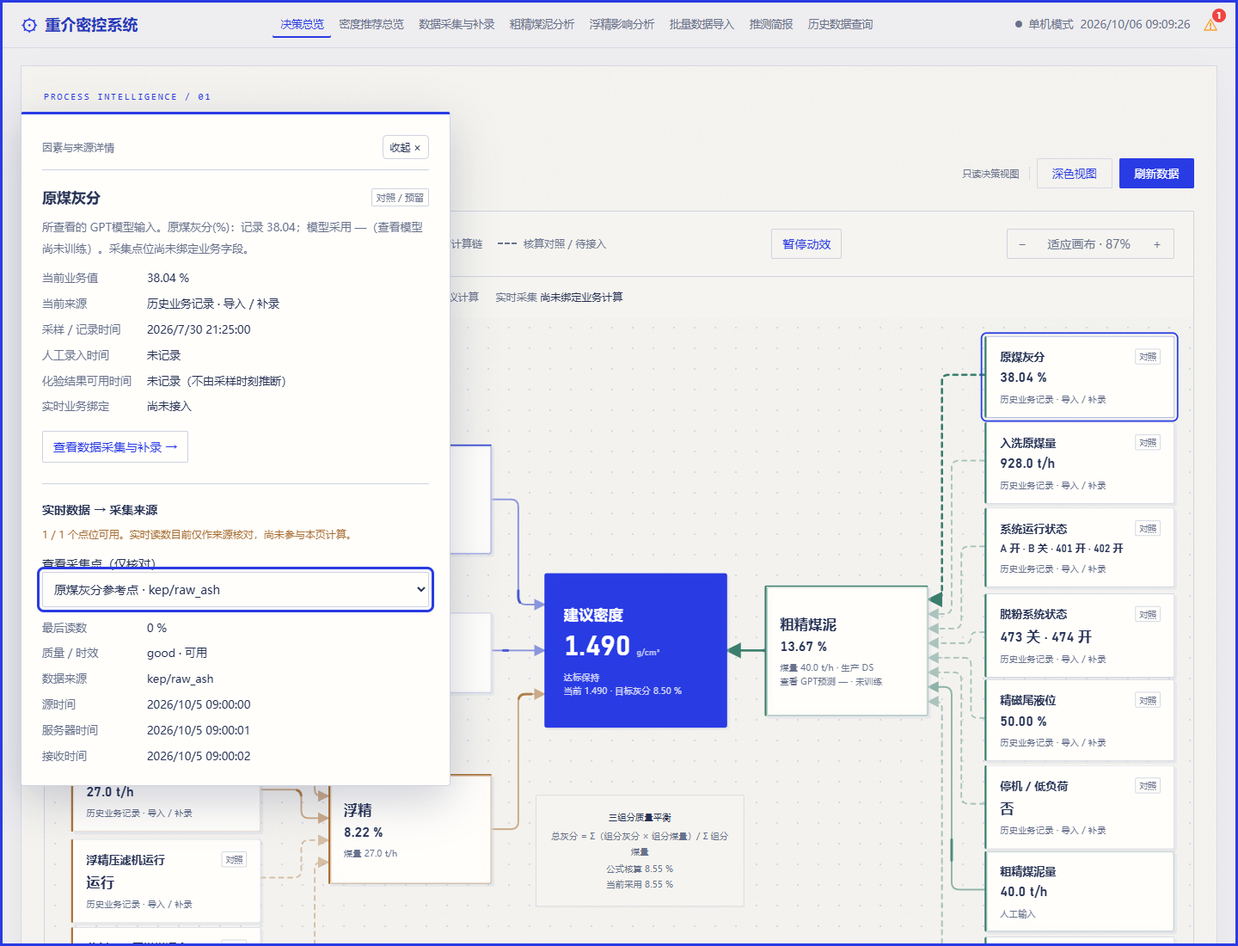
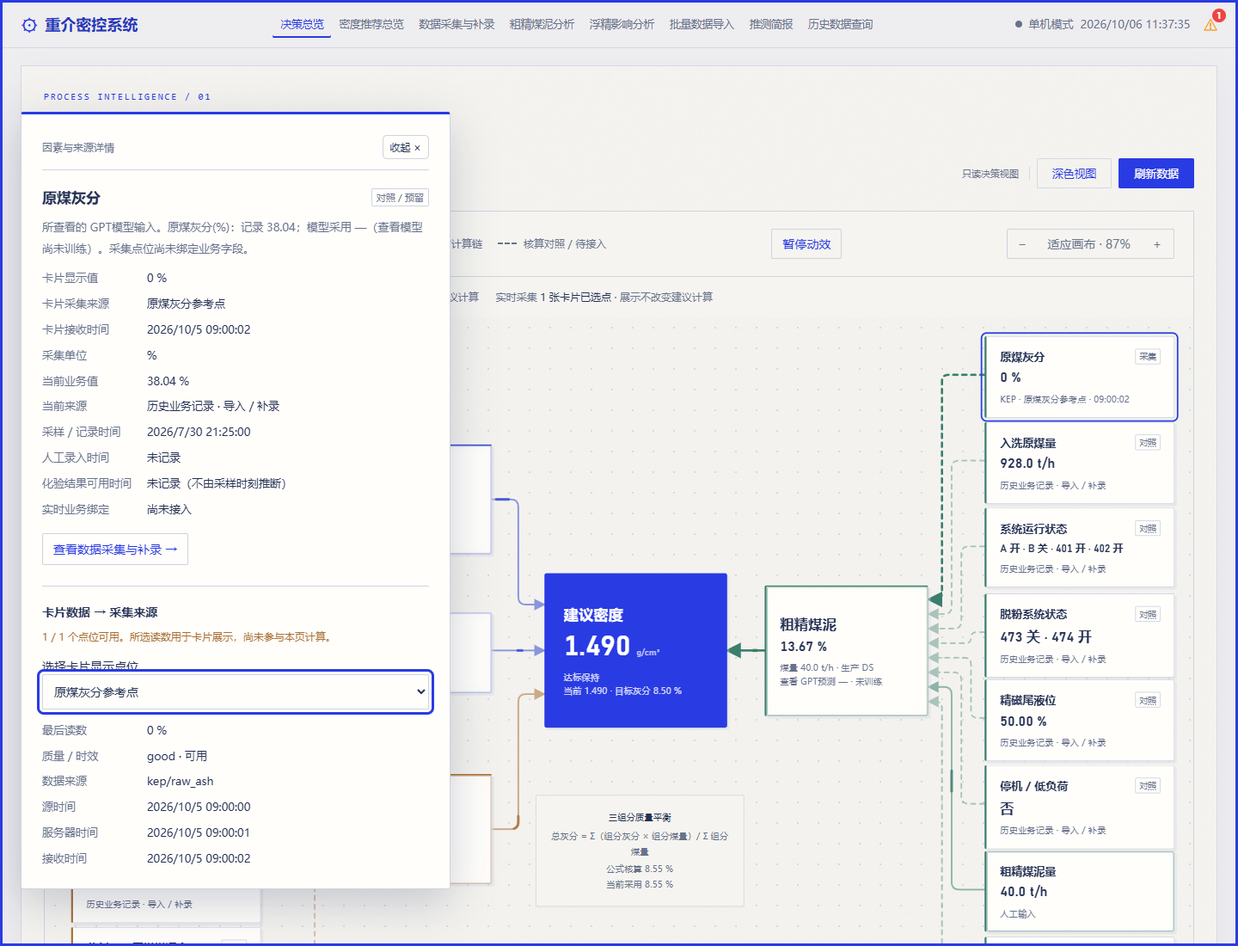
feat: update decision cards from selected telemetry points

diff --git a/frontend/js/decision-overview.js b/frontend/js/decision-overview.js
@@ -1,4 +1,4 @@
-/* Read-only decision map. Never switch/train models, save App.store, or bind telemetry. */
+/* Read-only decision map. Telemetry choices affect display only, never App.store or model inputs. */
 const DecisionOverviewPage = {
     initialized: false, view: 'gpt', selected: 'density', zoom: null, snapshot: null,
     pointChoices: {}, nodes: [], timer: null,
@@ -7,6 +7,7 @@ const DecisionOverviewPage = {
     motionEnabled: true, motionReduced: false, motionPrinting: false,
     revealFrame: null,
     background: null,
+    choicesKey: 'dmcs.decision-point-choices.v1',
     escape(value) { return String(value ?? '').replace(/[&<>"']/g, c => ({'&':'&amp;','<':'&lt;','>':'&gt;','"':'&quot;',"'":'&#39;'}[c])); },
     number(value, digits = 2, unit = '') { return Number.isFinite(value) ? value.toFixed(digits) + (unit ? ' ' + unit : '') : '—'; },
     time(value) {
@@ -15,6 +16,54 @@ const DecisionOverviewPage = {
         return Number.isFinite(date.getTime()) ? date.toLocaleString('zh-CN', {hour12:false}) + (date.getTime() > Date.now() + 60000 ? '（未来时间，需核对）' : '') : '未记录';
     },
     active() { return !!document.getElementById('page-decision')?.classList.contains('active'); },
+    loadPointChoices() {
+        try {
+            const saved = JSON.parse(localStorage.getItem(this.choicesKey) || '{}'), choices = Object.create(null);
+            if (saved && typeof saved === 'object' && !Array.isArray(saved)) for (const [id,value] of Object.entries(saved)) {
+                if (!/^[a-z][a-z0-9-]{0,63}$/.test(id) || typeof value !== 'string' || value.length > 160) continue;
+                let identity;
+                try { identity = JSON.parse(value); } catch (_) { continue; }
+                if (Array.isArray(identity) && identity.length === 2 && identity.every(v => typeof v === 'string' && /^[A-Za-z][A-Za-z0-9_-]{0,63}$/.test(v))) choices[id] = value;
+            }
+            this.pointChoices = choices;
+        } catch (_) { /* An invalid or unavailable local preference does not alter business data. */ }
+    },
+    savePointChoices() {
+        try { localStorage.setItem(this.choicesKey, JSON.stringify(this.pointChoices)); }
+        catch (_) { /* Keep the current selection in memory if local storage is unavailable. */ }
+    },
+    pointDisplay(node) {
+        const choice = this.pointChoices[node.id];
+        if (!choice) return {bound:false,value:node.value,source:node.source,sampleAt:node.sampleAt};
+        const item = (window.Operations?.telemetry?.items || []).find(p => this.pointIdentity(p) === choice);
+        const sample = item?.sample || {};
+        const hasValue = typeof sample.value === 'boolean' || Number.isFinite(sample.value);
+        const available = !!item?.available && !window.Operations?.telemetryFailed && sample.quality === 'good' && !sample.issue && hasValue;
+        let value = '—';
+        if (available) {
+            if (typeof sample.value === 'boolean') value = sample.value ? '1' : '0';
+            else {
+                const magnitude = Math.abs(sample.value);
+                value = magnitude >= 1e7 || (magnitude > 0 && magnitude < .001) ? sample.value.toExponential(3) :
+                    new Intl.NumberFormat('zh-CN', {maximumFractionDigits:3, useGrouping:false}).format(sample.value);
+            }
+            if (item.unit) value += ' ' + item.unit;
+        }
+        const state = item ? this.telemetryState(item) : '已选点位未返回';
+        const received = sample.received_at ? new Date(sample.received_at) : null;
+        const clock = received && Number.isFinite(received.getTime()) ? received.toLocaleTimeString('zh-CN', {hour12:false}) : '时间未记录';
+        return {bound:true,item,available,value,sampleAt:sample.received_at || null,
+            source:available ? `KEP · ${item.tag_name || item.name} · ${clock}` : `不可用 · ${state}`,
+            title:`${item?.item_id || sample.node_id || choice}；${state}；${item?.unit ? '单位 '+item.unit : '单位未提供'}；接收时间 ${this.time(sample.received_at)}`};
+    },
+    telemetryUpdated() {
+        if (!this.initialized || !this.active() || document.hidden || !this.snapshot) return;
+        const focused = document.activeElement?.dataset?.decisionNode;
+        this.renderGraph(); this.renderContext();
+        if (document.activeElement?.id !== 'decision-source-point' || Date.now() > this.sourceInteractionUntil) this.renderInspector();
+        if (focused) document.querySelector(`[data-decision-node="${focused}"]`)?.focus({preventScroll:true});
+        this.queueInspectorPosition();
+    },
 
     // Existing resolvers write autoState/EMA. Run them on a private copy instead.
     readFacade() {
@@ -62,8 +111,10 @@ const DecisionOverviewPage = {
     init() {
         if (this.initialized) { this.refresh(); return; }
         this.initialized = true;
+        this.loadPointChoices();
         if (typeof DecisionBackground !== 'undefined') this.background = new DecisionBackground(document.getElementById('decision-background-flow'));
         document.getElementById('decision-refresh').addEventListener('click', () => {
+            this.sourceInteractionUntil = 0;
             this.refresh();
             if (window.Operations) window.Operations.refresh().then(() => this.renderInspector());
         });
@@ -103,7 +154,10 @@ const DecisionOverviewPage = {
         document.getElementById('decision-inspector').addEventListener('change', event => {
             if (event.target.id === 'decision-source-point') {
                 this.pointChoices[this.selected] = event.target.value;
-                this.renderInspector();
+                if (!event.target.value) delete this.pointChoices[this.selected];
+                this.savePointChoices();
+                this.sourceInteractionUntil = Date.now() + 500;
+                this.renderGraph(); this.renderContext(); this.renderInspector();
                 document.getElementById('decision-source-point').focus({preventScroll:true});
             }
         });
@@ -371,7 +425,8 @@ const DecisionOverviewPage = {
     renderContext() {
         const s = this.snapshot, sources = {manual:'人工总灰分',formula:'三组分公式',entry:'501 导入 / 录入',ash501:'501 灰分取值'};
         const message = s.componentFeeds ? '三组分参与当前建议计算' : '三组分显示公式核算对照，建议由所选总灰分驱动';
-        document.getElementById('decision-context').innerHTML = `<span>指导口径 <strong>${s.guide.scheme === 'heavy' ? '重介精煤版' : '总灰分版'}</strong></span><span>生产模型 <strong>${this.escape(s.engineLabel)}</strong></span><span>总灰分来源 <strong>${this.escape(sources[s.total.source])}</strong></span><span>${message}</span><span>实时采集 <strong>尚未绑定业务计算</strong></span>`;
+        const bound = this.nodes.filter(node => this.pointChoices[node.id]).length;
+        document.getElementById('decision-context').innerHTML = `<span>指导口径 <strong>${s.guide.scheme === 'heavy' ? '重介精煤版' : '总灰分版'}</strong></span><span>生产模型 <strong>${this.escape(s.engineLabel)}</strong></span><span>总灰分来源 <strong>${this.escape(sources[s.total.source])}</strong></span><span>${message}</span><span>实时采集 <strong>${bound ? bound+' 张卡片已选点' : '选择点位后更新卡片'}</strong> · 展示不改变建议计算</span>`;
     },
 
     // Short right-angle routes with small rounded corners; aligned nodes stay straight.
@@ -417,21 +472,25 @@ const DecisionOverviewPage = {
         const flowingIds = new Set(), now = Date.now()/1000;
         const paths = this.routeConnections().map(({node,parent,path},index) => {
             const highlight = ancestorIds.has(node.id) && ancestorIds.has(parent.id);
-            const flows = !node.reference && node.value !== '—' && parent.value !== '—';
+            const displayReference = node.reference || (node.id !== 'density' && !!this.pointChoices[node.id]) || (parent.id !== 'density' && !!this.pointChoices[parent.id]);
+            const flows = !displayReference && node.value !== '—' && parent.value !== '—';
             if (flows) { flowingIds.add(node.id); flowingIds.add(parent.id); }
             // Negative phase keeps motion continuous when the five-second snapshot rebuilds the graph.
             const phase = -((now+index*.37)%4).toFixed(3);
             const trace = flows ? `<path class="decision-flow${highlight ? ' is-highlight' : ''}" d="${path}" pathLength="100" style="--dm-flow-color:${colors[node.family]};animation-delay:${phase}s"/>` : '';
-            return `<path class="decision-edge${node.reference ? ' is-reference' : ''}${highlight ? ' is-highlight' : ''}" data-decision-from="${node.id}" data-decision-to="${parent.id}" d="${path}" stroke="${colors[node.family]}" marker-end="url(#decision-arrow-${node.family})"/>${trace}`;
+            return `<path class="decision-edge${displayReference ? ' is-reference' : ''}${highlight ? ' is-highlight' : ''}" data-decision-from="${node.id}" data-decision-to="${parent.id}" d="${path}" stroke="${colors[node.family]}" marker-end="url(#decision-arrow-${node.family})"/>${trace}`;
         }).join('');
         const markers = Object.entries(colors).map(([key,color]) => `<marker id="decision-arrow-${key}" viewBox="0 0 8 8" refX="7" refY="4" markerWidth="7" markerHeight="7" orient="auto"><path d="M0 0 L8 4 L0 8" fill="${color}"/></marker>`).join('');
         const cards = this.nodes.map((node,index) => {
             const active = node.id === this.selected;
+            const display = this.pointDisplay(node), root = node.id === 'density';
             const preview = node.id === 'coarse' ? `<span>查看${this.view === 'gpt' ? ' GPT' : '生产'}预测 ${this.number(s.prediction,2,'%')}${!s.model ? ' · 未训练' : s.previewOnly ? ' · 对照' : ' · 未平滑'}</span>` : '';
             const unit = node.id === 'density' ? '<span class="decision-root-unit">g/cm³</span>' : '';
             const sub = node.id === 'density' ? `<span>当前 ${this.number(s.guide.rhoCur,3)} · 目标灰分 ${this.number(s.guide.targetTotal,2,'%')}</span>` : '';
             const phase = -((now+index*.41)%5).toFixed(3);
-            return `<button type="button" class="decision-node${active ? ' is-selected' : ''}${flowingIds.has(node.id) ? ' has-flow' : ''}${node.type === 'root' ? ' decision-root' : node.type === 'component' ? ' decision-component' : ''}" data-decision-node="${node.id}" data-family="${node.family || 'root'}" aria-pressed="${active}" style="left:${node.x}px;top:${node.y}px;width:${node.w}px;min-height:${node.h}px;--dm-pulse-delay:${phase}s"><span class="decision-node-heading">${this.escape(node.title)}${node.reference ? '<span class="decision-badge">对照</span>' : ''}</span><span class="decision-node-value">${this.escape(node.value)}${unit}</span><span class="decision-node-source"><span>${this.escape(node.source)}</span>${sub}${preview}</span></button>`;
+            const badge = display.bound && !root ? `<span class="decision-badge">${display.available ? '采集' : '不可用'}</span>` : node.reference ? '<span class="decision-badge">对照</span>' : '';
+            const compare = display.bound && root ? `<span class="decision-live-comparison">采集对照 ${this.escape(display.value)}${display.available ? '' : '（不可用）'}</span>` : '';
+            return `<button type="button" class="decision-node${active ? ' is-selected' : ''}${flowingIds.has(node.id) ? ' has-flow' : ''}${display.bound ? ' is-telemetry' : ''}${display.bound && !display.available ? ' is-telemetry-unavailable' : ''}${node.type === 'root' ? ' decision-root' : node.type === 'component' ? ' decision-component' : ''}" data-decision-node="${node.id}" data-family="${node.family || 'root'}" aria-pressed="${active}"${display.bound ? ` title="${this.escape(display.title)}"` : ''} style="left:${node.x}px;top:${node.y}px;width:${node.w}px;min-height:${node.h}px;--dm-pulse-delay:${phase}s"><span class="decision-node-heading">${this.escape(node.title)}${badge}</span><span class="decision-node-value">${this.escape(root ? node.value : display.value)}${unit}</span><span class="decision-node-source"><span>${this.escape(root ? node.source : display.source)}</span>${sub}${preview}${compare}</span></button>`;
         }).join('');
         document.getElementById('decision-board').innerHTML = `<svg class="decision-edges" aria-hidden="true" viewBox="0 0 1540 970"><defs>${markers}</defs>${paths}</svg>${cards}<div class="decision-formula"><strong>三组分质量平衡</strong>总灰分 = Σ（组分灰分 × 组分煤量）/ Σ 组分煤量<br>公式核算 ${this.number(s.formula,2,'%')}<br>当前采用 ${this.number(s.total.value,2,'%')}</div>`;
     },
@@ -443,8 +502,12 @@ const DecisionOverviewPage = {
     pointIdentity(item) { return JSON.stringify([item.source_id,item.key]); },
     renderInspector() {
         if (!this.snapshot) return;
+        const scrollTop = document.getElementById('decision-inspector').scrollTop || 0;
         const node = this.nodes.find(n => n.id === this.selected) || this.nodes[0], s = this.snapshot;
+        const display = this.pointDisplay(node);
         const pairs = [['当前业务值',node.value + (node.id === 'density' ? ' g/cm³' : '')],['当前来源',node.source],['采样 / 记录时间',this.time(node.sampleAt)],['人工录入时间',this.time(node.enteredAt)],['化验结果可用时间','未记录（不由采样时刻推断）'],['实时业务绑定','尚未接入']];
+        if (display.bound) pairs.unshift([node.id === 'density' ? '采集对照值' : '卡片显示值',display.value + (display.available ? '' : '（不可用）')],
+            ['卡片采集来源',display.item?.item_id || display.item?.name || '已选点位未返回'],['卡片接收时间',this.time(display.sampleAt)],['采集单位',display.item?.unit || '未提供 · 不沿用业务单位']);
         if (node.family && s.sum > 0 && node.type === 'component') {
             const contribution = Number.isFinite(s.ashes[node.family]) ? s.ashes[node.family] * s.amounts[node.family] / s.sum : null;
             pairs.push(['组分质量占比',this.number(s.amounts[node.family] / s.sum * 100,1,'%')],['加权灰分贡献',this.number(contribution,3,'百分点')]);
@@ -459,13 +522,15 @@ const DecisionOverviewPage = {
         const items = window.Operations?.telemetry?.items || [];
         const choice = this.pointChoices[node.id] || '';
         const item = items.find(p => this.pointIdentity(p) === choice);
-        const options = items.map(p => `<option value="${this.escape(this.pointIdentity(p))}"${this.pointIdentity(p) === choice ? ' selected' : ''}>${this.escape(`${p.name} · ${p.source_id}/${p.key}`)}</option>`).join('');
+        const missingOption = choice && !item ? `<option value="${this.escape(choice)}" selected>已选点位暂未返回</option>` : '';
+        const options = missingOption + items.slice().sort((a,b) => String(a.item_id || a.name).localeCompare(String(b.item_id || b.name),'zh-CN',{numeric:true})).map(p => `<option value="${this.escape(this.pointIdentity(p))}"${this.pointIdentity(p) === choice ? ' selected' : ''}>${this.escape(p.device && p.tag_name ? `${p.device} · ${p.tag_name} · ${p.description || ''}` : p.name)}</option>`).join('');
         const sample = item?.sample || {};
         const value = typeof sample.value === 'boolean' ? (sample.value ? '开' : '关') : sample.value ?? '—';
         const available = item && item.available && !window.Operations?.telemetryFailed;
-        const live = item ? `<dl class="decision-facts"><dt>最后读数</dt><dd class="${available ? '' : 'decision-unavailable'}">${this.escape(value)} ${this.escape(item.unit || '')}${available ? '' : '（不可用）'}</dd><dt>质量 / 时效</dt><dd>${this.escape(this.telemetryState(item))}</dd><dt>数据来源</dt><dd>${this.escape(item.source_id + '/' + item.key)}</dd><dt>源时间</dt><dd>${this.escape(this.time(sample.source_at))}</dd><dt>服务器时间</dt><dd>${this.escape(this.time(sample.server_at))}</dd><dt>接收时间</dt><dd>${this.escape(this.time(sample.received_at))}</dd></dl>` : '<p>尚未选择参考点位。这里可以核对采集读数，选择点位不会绑定业务字段或改变计算。</p>';
+        const live = item ? `<dl class="decision-facts"><dt>最后读数</dt><dd class="${available ? '' : 'decision-unavailable'}">${this.escape(value)} ${this.escape(item.unit || '')}${available ? '' : '（不可用）'}</dd><dt>质量 / 时效</dt><dd>${this.escape(this.telemetryState(item))}</dd><dt>数据来源</dt><dd>${this.escape(item.item_id || item.source_id + '/' + item.key)}</dd><dt>源时间</dt><dd>${this.escape(this.time(sample.source_at))}</dd><dt>服务器时间</dt><dd>${this.escape(this.time(sample.server_at))}</dd><dt>接收时间</dt><dd>${this.escape(this.time(sample.received_at))}</dd></dl>` : `<p>${choice ? '已选点位暂未返回，卡片保持不可用，等待采集恢复。' : '选择点位后，该卡片立即显示采集值；清空选择恢复原业务显示。建议密度只增加采集对照值。'}</p>`;
         const collector = window.Operations?.telemetryFailed ? '采集查询中断，最后读数不可用' : !items.length ? (window.Operations?.serverState === 'local' ? '单机模式 · 通过服务器地址查看采集' : '暂无点位 · 等待现场配置与联调') : `${items.filter(p => p.available).length} / ${items.length} 个点位可用`;
-        document.getElementById('decision-inspector').innerHTML = `<div class="decision-inspector-header"><span>因素与来源详情</span><button type="button" class="decision-inspector-close" data-decision-close>收起 ×</button></div><div class="decision-detail"><div class="decision-detail-heading"><h3>${this.escape(node.title)}</h3><span class="decision-badge">${node.reference ? '对照 / 预留' : '业务取值'}</span></div><p>${this.escape(node.description)}</p><dl class="decision-facts">${facts}</dl>${node.page ? `<button class="decision-detail-link" type="button" data-decision-page="${node.page}">查看对应业务页面 →</button>` : '<button class="decision-detail-link" type="button" data-decision-page="page-collect">查看数据采集与补录 →</button>'}</div><div class="decision-detail decision-source-panel"><h4>实时数据 → 采集来源</h4><p class="decision-live-state">${this.escape(collector)}。实时读数目前仅作来源核对，尚未参与本页计算。</p><label for="decision-source-point">查看采集点（仅核对）</label><select id="decision-source-point"><option value="">选择参考点位</option>${options}</select>${live}</div>`;
+        document.getElementById('decision-inspector').innerHTML = `<div class="decision-inspector-header"><span>因素与来源详情</span><button type="button" class="decision-inspector-close" data-decision-close>收起 ×</button></div><div class="decision-detail"><div class="decision-detail-heading"><h3>${this.escape(node.title)}</h3><span class="decision-badge">${node.reference ? '对照 / 预留' : '业务取值'}</span></div><p>${this.escape(node.description)}</p><dl class="decision-facts">${facts}</dl>${node.page ? `<button class="decision-detail-link" type="button" data-decision-page="${node.page}">查看对应业务页面 →</button>` : '<button class="decision-detail-link" type="button" data-decision-page="page-collect">查看数据采集与补录 →</button>'}</div><div class="decision-detail decision-source-panel"><h4>卡片数据 → 采集来源</h4><p class="decision-live-state">${this.escape(collector)}。所选读数用于卡片展示，尚未参与本页计算。</p><label for="decision-source-point">选择卡片显示点位${node.id === 'density' ? '（采集对照）' : ''}</label><select id="decision-source-point"><option value="">不使用采集值</option>${options}</select>${live}</div>`;
+        document.getElementById('decision-inspector').scrollTop = scrollTop;
         this.queueInspectorPosition();
     },
 };

diff --git a/frontend/index.html b/frontend/index.html
@@ -6,7 +6,7 @@
     <title>重介密控系统 - 密度推荐与灰分监控平台</title>
     <link rel="icon" type="image/svg+xml" href="favicon.svg">
     <link rel="stylesheet" href="css/style.css?v=11">
-    <link rel="stylesheet" href="css/decision-overview.css?v=6">
+    <link rel="stylesheet" href="css/decision-overview.css?v=7">
     <!-- 无外部依赖，图表使用纯Canvas 2D绘制 -->
     <script src="js/xlsx-lite.js?v=8"></script>
     <script src="js/chart-lite.js?v=7"></script>
@@ -105,7 +105,7 @@
                         <div class="decision-canvas-space" id="decision-canvas-space"><div class="decision-board" id="decision-board"></div></div>
                     </div>
                     <div class="decision-inspector" id="decision-inspector" aria-label="节点详情"></div>
-                    <p class="decision-footnote">点击节点查看详情，点击画布空白处收起。动效仅示意计算方向；虚线不代表实时数据已参与计算。本页只读，密度建议由人工核对执行。</p>
+                    <p class="decision-footnote">点击节点选择采集点，卡片随读数更新；点击画布空白处收起。采集显示不改变建议计算，相关连线作为虚线对照。建议密度保留计算值，点位显示为采集对照。</p>
                 </div>
             </div>
             <div class="decision-reveal" id="decision-reveal">
@@ -893,14 +893,14 @@
     <script src="js/app.js?v=86"></script>
     <script src="js/overview.js?v=46"></script>
     <script src="js/decision-background.js?v=1"></script>
-    <script src="js/decision-overview.js?v=6"></script>
+    <script src="js/decision-overview.js?v=7"></script>
     <script src="js/collect.js?v=25"></script>
     <script src="js/coarse.js?v=24"></script>
     <script src="js/float.js?v=15"></script>
     <script src="js/import.js?v=26"></script>
     <script src="js/brief.js?v=2"></script>
     <script src="js/history.js?v=2"></script>
-    <script src="js/operations.js?v=2"></script>
+    <script src="js/operations.js?v=3"></script>
     <!-- AI 解读助手：按现场要求（2026-09-18）移除界面入口，右下角不再出现悬浮「AI」按钮与聊天面板。
          前端 js/assistant.js、style.css 的 .ai-* 样式与后端 /api/v1/assistant/ask 都保留未动，
          以后要恢复只需把下面两行加回来：

diff --git a/backend/scripts/verify_decision_overview.js b/backend/scripts/verify_decision_overview.js
@@ -88,11 +88,22 @@ page.renderInspector();
 assert.match(elements['decision-inspector'].innerHTML, /&lt;img/);
 assert.match(elements['decision-inspector'].innerHTML, />0 %/,'A valid zero is displayed');
 assert.match(elements['decision-inspector'].innerHTML, /尚未参与本页计算/);
+assert.equal(page.pointDisplay(page.nodes.find(n => n.id === 'raw-ash')).value, '0 %');
+const boundPoint = ctx.window.Operations.telemetry.items[0];
+boundPoint.unit = '';
+assert.equal(page.pointDisplay(page.nodes.find(n => n.id === 'raw-ash')).value, '0', 'Unknown unit must not inherit card percent');
+assert.match(page.pointDisplay(page.nodes.find(n => n.id === 'raw-ash')).title, /单位未提供/);
+boundPoint.sample.value = false;
+assert.equal(page.pointDisplay(page.nodes.find(n => n.id === 'raw-ash')).value, '0', 'Boolean false is a valid reading');
+boundPoint.sample.value = 0; boundPoint.unit = '%';
 ctx.window.Operations.telemetryFailed = true;
+assert.equal(page.pointDisplay(page.nodes.find(n => n.id === 'raw-ash')).value, '—', 'Failed query cannot leave an active card value');
 page.renderInspector();
 assert.match(elements['decision-inspector'].innerHTML, /查询中断/);
 assert.match(elements['decision-inspector'].innerHTML, /0 %（不可用）/);
 ctx.window.Operations.telemetry.items = [];
+assert.equal(page.pointDisplay(page.nodes.find(n => n.id === 'raw-ash')).bound,true,'Missing point preserves display mapping');
+assert.equal(page.pointDisplay(page.nodes.find(n => n.id === 'raw-ash')).value,'—');
 page.renderInspector();
 assert.match(elements['decision-inspector'].innerHTML,/采集查询中断/,'First failed query with no cached points must not look unconfigured');
 assert.equal(page.telemetryState({status:'stale',sample:{quality:'good'}},false),'good · 接收超时','Good quality alone does not imply availability');

diff --git a/backend/scripts/verify_decision_overview_browser.js b/backend/scripts/verify_decision_overview_browser.js
@@ -82,8 +82,9 @@ const output = path.join(root,'docs/verification/decision-overview-20261005');
             DecisionOverviewPage.refresh();
         });
         await page.locator('[data-decision-node="raw-ash"]').click();
-        await page.locator('#decision-source-point').selectOption({label:'原煤灰分参考点 · kep/raw_ash'});
+        await page.locator('#decision-source-point').selectOption({value:JSON.stringify(['kep','raw_ash'])});
         assert.match(await page.locator('#decision-inspector').innerText(),/0 %/);
+        assert.match(await page.locator('[data-decision-node="raw-ash"] .decision-node-value').innerText(),/^0 %$/);
         assert.match(await page.locator('#decision-inspector').innerText(),/尚未参与本页计算/);
         assert.equal(await page.evaluate(() => JSON.stringify(App.store)),storeBefore,'Good telemetry never enters production store');
         await page.screenshot({path:path.join(output,'decision-overview-source.png')});

diff --git a/frontend/css/decision-overview.css b/frontend/css/decision-overview.css
@@ -41,6 +41,9 @@
 .decision-node[data-decision-node="system-switches"] .decision-node-value { font-size: 14px; white-space: nowrap; }
 .decision-node-source { color: var(--dm-muted); font-size: 12px; line-height: 1.5; }
 .decision-node-source span { display: block; }
+.decision-node.is-telemetry .decision-node-source > span:first-child { white-space: nowrap; overflow: hidden; text-overflow: ellipsis; }
+.decision-node.is-telemetry-unavailable:not(.decision-root) .decision-node-value { color: var(--dm-muted); }
+.decision-live-comparison { white-space: nowrap; overflow: hidden; text-overflow: ellipsis; }
 .decision-node[data-family="heavy"] { --dm-node-accent: var(--dm-blue); border-left: 3px solid var(--dm-blue); }
 .decision-node[data-family="float"] { --dm-node-accent: var(--dm-orange); border-left: 3px solid var(--dm-orange); }
 .decision-node[data-family="coarse"] { --dm-node-accent: var(--dm-green); border-left: 3px solid var(--dm-green); }

diff --git a/frontend/js/operations.js b/frontend/js/operations.js
@@ -102,6 +102,7 @@ window.Operations = {
         this.text('ops-message', this.serverState === 'local' ? '通过服务器地址打开页面，即可查看实时采集状态。' :
             this.telemetryFailed ? '采集查询失败，保留最后读数供核对；当前读数不可用。' :
             sources.length ? '时间为本机接收时间，每 5 秒刷新；灰色值表示当前不可用，悬停可查看原因。' : '采集尚未启动。完成现场点表和连接配置后，这里将显示实时读数。');
+        if (typeof DecisionOverviewPage !== 'undefined') DecisionOverviewPage.telemetryUpdated();
         const body = document.getElementById('telemetry-tbody');
         if (!body) return;
         if (!items.length) { body.innerHTML = '<tr><td colspan="6" class="ops-empty">暂无采集数据</td></tr>'; return; }

diff --git a/docs/决策总览使用说明-20261005.md b/docs/决策总览使用说明-20261005.md
@@ -2,7 +2,7 @@
 
 在顶部菜单打开“决策总览”。原“密度推荐总览”和其他页面保留。也可以在系统地址后加 `#decision` 直接进入新页。
 
-页面以建议密度为中心，左侧展示重介精煤、浮精，右侧展示粗精煤泥；外层为灰分、煤量、系统状态、脱粉状态、液位等因素。箭头指向被计算或被解释的对象。节点显示当前业务值及来源，点击后在详情面板查看取值口径、记录时间、人工录入时间和采集来源。
+页面以建议密度为中心，左侧展示重介精煤、浮精，右侧展示粗精煤泥；外层为灰分、煤量、系统状态、脱粉状态、液位等因素。箭头指向被计算或被解释的对象。卡片默认显示当前业务值；选取采集点后，普通卡片改为显示所选点的采集值、来源与接收时刻。中间建议密度保留计算值，所选点显示为“采集对照”。
 
 左侧卡片的详情在右侧打开，右侧卡片的详情在左侧打开，中央“建议密度”的详情在下方打开。位置随画布缩放、滚动和窗口尺寸调整，不遮住所选卡片；窄屏侧边空间不足时改为下方。下方空间不足时适度滚动画布，极矮窗口则使用画布下方的详情区域。面板内容较多时可在面板内滚动。
 
@@ -14,7 +14,7 @@
 
 配色和分层方式参考 [Nous Research 官网](https://nousresearch.com/)，纸张纹理和蓝色曲线为本项目原创的本地 SVG（`frontend/assets/decision-paper.svg`、`frontend/assets/decision-field.svg`）。没有使用官网图片、字体、脚本或远程画布资源，可在内网及离线环境显示。此前公开来源核查未找到明确覆盖其官网背景素材的复用许可，因此本次独立实现。
 
-有效计算连线叠加沿箭头方向流动的光段，对应卡片显示轻微边框呼吸效果；选中链路更醒目，卡片位置和数值文字保持稳定。对照、待接入以及缺少数值的连线保持静态。动效仅示意计算方向，不代表 KEPServer 正在实时更新。
+有效计算连线叠加沿箭头方向流动的光段，对应卡片显示轻微边框呼吸效果；选中链路更醒目，卡片位置和数值文字保持稳定。采集显示卡片相关连线改为虚线对照，因为显示映射没有改变模型输入。对照、待接入以及缺少数值的连线保持静态。动效仅示意计算方向，不代表 KEPServer 正在实时更新。
 
 工具栏“暂停动效 / 开启动效”控制装饰动画，开关仅在当前页面内存中保留。切换页面或浏览器页面隐藏时暂停动画；系统开启“减少动态效果”时使用静态视图，打印时也保留静态箭头与数值。
 
@@ -30,7 +30,11 @@
 
 ## 采集来源与时间
 
-详情面板的“查看采集点”只用于核对 KEPServer 来源、最后读数、质量、源时间、服务器时间和接收时间。选择保留在当前页面内存中，不保存映射，不使采集值进入模型或密度建议。采集查询失败时最后读数显示为不可用；Good 质量仍需同时满足时效等可用性规则。
+详情面板的“选择卡片显示点位”会立即更新该卡片；后台采集查询完成后自动更新显示，不另开一套 API 轮询。选择以来源和点 key 标识，保存在当前浏览器、当前站点的独立 localStorage 项中，切页、刷新和重载后保留；本地存储不可用时仅保留当前页面内存选择。“不使用采集值”清除映射并恢复原业务显示。
+
+0 和布尔 false 都是合法采集值；布尔显示 0/1。只有当前可用的数值或布尔读数显示在卡片主值中。查询失败、坏质量、过期、离线或点位暂未返回时，主值显示“—”与不可用状态，保留选择等待恢复，详情仍可核对最后读数。采集点没有单位时不沿用卡片原有单位，悬停和详情明确提示单位未提供。
+
+卡片显示映射不写入 App.store，不修改 GPT / DS 模型输入或生产计算。详情将采集显示值与原业务计算值分开列出；建议密度不会被现场实际密度覆盖。实际密度点建议选在“当前分选密度”卡片上。Good 质量仍需同时满足时效等可用性规则。
 
 业务记录、人工输入、模型预测、默认值与实时采集分别标注。历史记录没有化验出报告时间，页面不会根据采样时刻推定结果已可用。未知时间显示“未记录”，未来时间提示核对。
 
@@ -45,6 +49,8 @@
 只读回归：`node backend/scripts/verify_decision_overview.js`。浏览器验收脚本 `backend/scripts/verify_decision_overview_browser.js` 使用独立 Chrome 上下文和 `file://`，不连接服务器数据库；需要可用的 Playwright 库，可用 `DMCS_PLAYWRIGHT_MODULE` 指定现有库路径。验收记录位于 [browser-result.json](verification/decision-overview-20261005/browser-result.json)，覆盖四档宽度、节点详情、主题、缩放、页面切换和采集参考。
 
 页面截图：[深色](verification/decision-overview-20261005/decision-overview-dark.png)、[浅色](verification/decision-overview-20261005/decision-overview-light.png)。[来源核对示例](verification/decision-overview-20261005/decision-overview-source.png)使用隔离浏览器中的模拟点位，示例值不代表现场数据。
+
+点位与卡片联动：[现场密度卡片](verification/decision-binding-20261006/live-density-card.png)、[联动验收记录](verification/decision-binding-20261006/binding-result.json)。覆盖即时更新、后续采集更新、重载保留、点位消失、清除恢复、零值与 false、未知单位、查询失败与坏质量，以及建议主值和业务 store 不变；现场网页验收阻断了全部 HTTP 修改请求。
 
 2026-10-06 完成纸张主题与分层背景验收：[首屏](verification/decision-overview-20261005/decision-paper-first.png)、[揭露过程](verification/decision-overview-20261005/decision-paper-reveal.png)、[页尾](verification/decision-overview-20261005/decision-paper-bottom.png)、[深色页尾](verification/decision-overview-20261005/decision-paper-bottom-dark.png)。[样式验收记录](verification/decision-overview-20261005/paper-style-result.json)覆盖五档宽度的详情避让、页尾实际可见性、减少动态效果、页面样式隔离与业务 store 不变。浏览器验收脚本同时检查三档窗口的页尾标题可见性。
 
